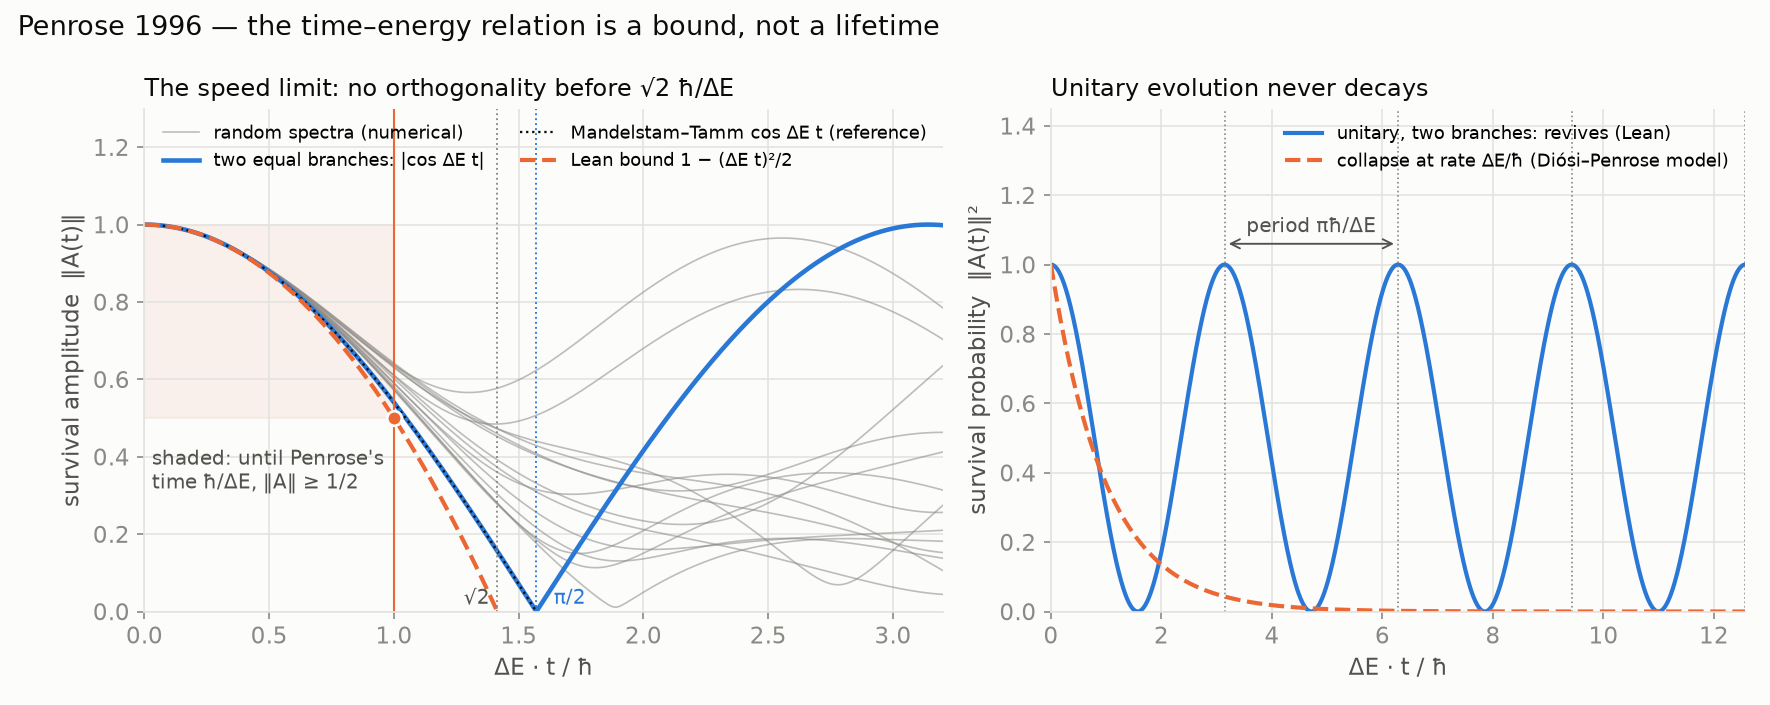
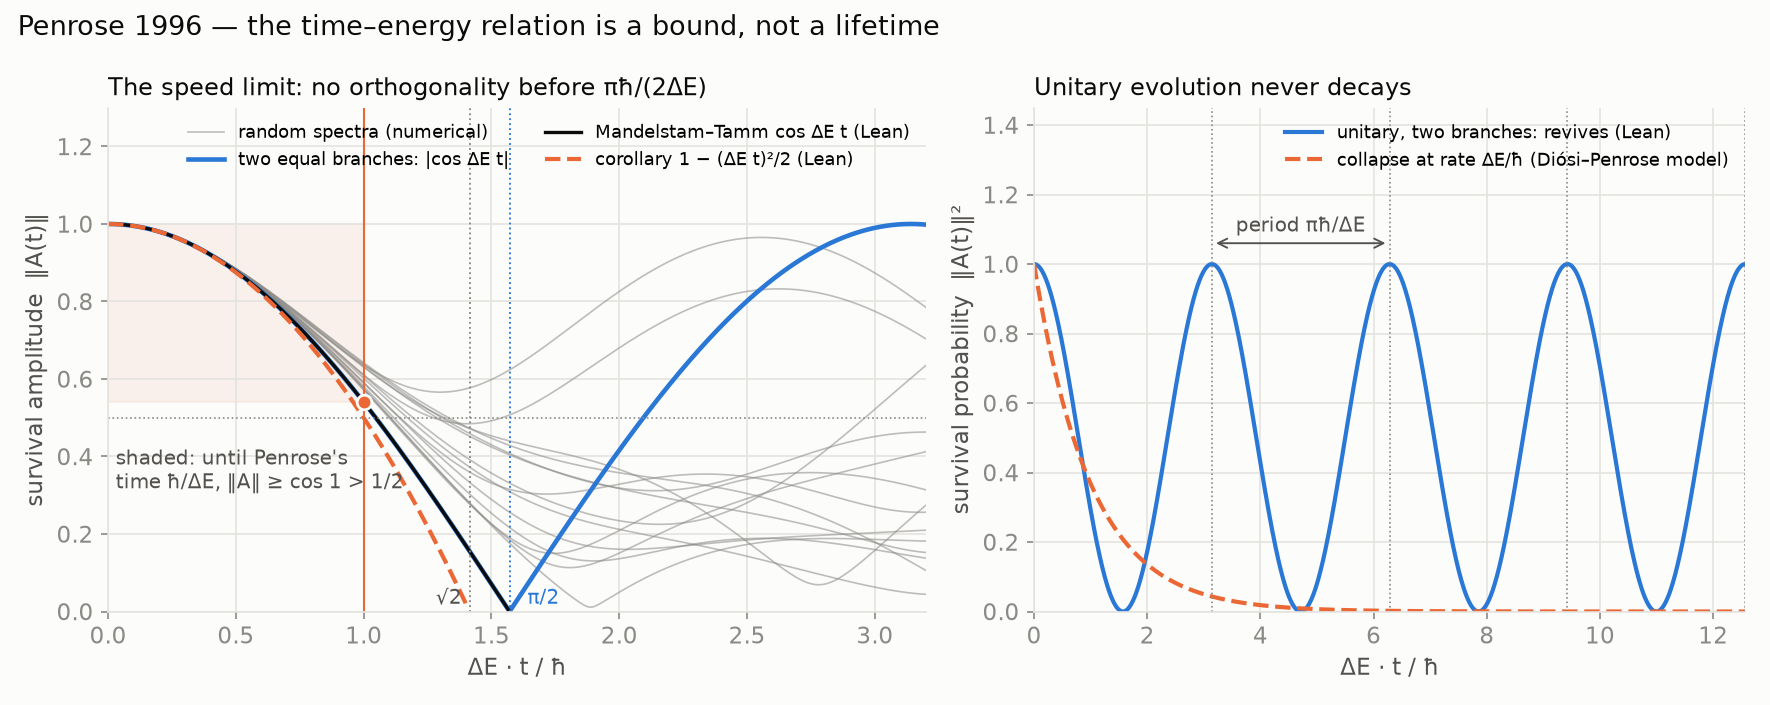
feat: the Taylor bound back, as a corollary of Mandelstam–Tamm
1 − ΔE²t²/2 ≤ ‖A(t)‖ for every t: from cos ΔE t up to π/2, trivially
beyond, and by E ↦ −E for t < 0. Figure redrawn with the new bounds.

diff --git a/docs/simulation/figures_penrose.py b/docs/simulation/figures_penrose.py
@@ -3,13 +3,14 @@
 Writes docs/figures/penrose1996_speed_limit.png.
 
 Left: survival amplitudes |A(t)| = |∑ p_k e^{−i E_k t}| against ΔE·t (ħ = 1): two equal branches
-(|cos ΔE t|, exact) and random finite spectra (numerical), above the Lean bound 1 − (ΔE t)²/2.
-At Penrose's time ΔE·t = 1 every curve is at least 1/2; none reaches 0 before √2.
+(|cos ΔE t|, exact) and random finite spectra (numerical), above the Mandelstam–Tamm bound
+cos ΔE t and its Taylor corollary 1 − (ΔE t)²/2. At Penrose's time ΔE·t = 1 every curve is at
+least cos 1 ≈ 0.54 > 1/2; none reaches 0 before π/2.
 Right: unitary dynamics revives (period π/ΔE, Lean) while a Diósi–Penrose collapse at rate ΔE/ħ
 would decay; the decay curve is the model's prediction, not a consequence of unitary dynamics.
 
-Exact (Lean, Penrose1996): the bound, ‖A‖ ≥ 1/2 at ΔE·t ≤ 1, two-branch orthogonality at π/2,
-period π. The Mandelstam–Tamm curve cos(ΔE t) is shown for reference; it is not formalized here.
+Exact (Lean, Penrose1996 on MandelstamTamm1945): cos ΔE t ≤ ‖A‖ up to π/2, 1 − (ΔE t)²/2 ≤ ‖A‖
+for every t, ‖A‖ ≥ cos 1 > 1/2 at ΔE·t ≤ 1, two-branch orthogonality at π/2, period π.
 
 Run:  python3 docs/simulation/figures_penrose.py
 """
@@ -41,15 +42,16 @@ def fig_penrose():
                 label="random spectra (numerical)" if i == 0 else None)
     ax.plot(s, np.abs(np.cos(s)), color=BLUE, lw=2.2, label="two equal branches: |cos ΔE t|")
     m = s <= np.pi / 2
-    ax.plot(s[m], np.cos(s[m]), color=INK, lw=1.1, ls=":",
-            label="Mandelstam–Tamm cos ΔE t (reference)")
+    ax.plot(s[m], np.cos(s[m]), color=INK, lw=1.6,
+            label="Mandelstam–Tamm cos ΔE t (Lean)")
     b = s <= np.sqrt(2)
     ax.plot(s[b], 1 - s[b] ** 2 / 2, color=ORANGE, lw=2, ls="--",
-            label="Lean bound 1 − (ΔE t)²/2")
-    ax.fill_between([0, 1], 0.5, 1.0, color=ORANGE, alpha=0.08)
+            label="corollary 1 − (ΔE t)²/2 (Lean)")
+    ax.fill_between([0, 1], np.cos(1), 1.0, color=ORANGE, alpha=0.08)
     ax.axvline(1, color=ORANGE, lw=1)
-    ax.plot([1], [0.5], "o", color=ORANGE, mec=SURFACE, mew=1.3, ms=7, zorder=5)
-    ax.text(0.03, 0.3, "shaded: until Penrose's\ntime ħ/ΔE, ‖A‖ ≥ 1/2", color=INK2,
+    ax.plot([1], [np.cos(1)], "o", color=ORANGE, mec=SURFACE, mew=1.3, ms=7, zorder=5)
+    ax.axhline(0.5, color=MUTED, lw=0.8, ls=":")
+    ax.text(0.03, 0.3, "shaded: until Penrose's\ntime ħ/ΔE, ‖A‖ ≥ cos 1 > 1/2", color=INK2,
             fontsize=9.5, va="bottom")
     ax.axvline(np.sqrt(2), color=MUTED, lw=0.9, ls=":")
     ax.axvline(np.pi / 2, color=BLUE, lw=0.9, ls=":")
@@ -60,7 +62,7 @@ def fig_penrose():
     ax.set_xlabel("ΔE · t / ħ")
     ax.set_ylabel("survival amplitude  ‖A(t)‖")
     ax.legend(loc="upper right", fontsize=8.6, framealpha=0.95, ncol=2)
-    ax.set_title("The speed limit: no orthogonality before √2 ħ/ΔE", loc="left", fontsize=11.5)
+    ax.set_title("The speed limit: no orthogonality before πħ/(2ΔE)", loc="left", fontsize=11.5)
 
     t = np.linspace(0, 4 * np.pi, 1200)
     bx.plot(t, np.cos(t) ** 2, color=BLUE, lw=2, label="unitary, two branches: revives (Lean)")

diff --git a/README.md b/README.md
@@ -12,6 +12,7 @@ evolution still keeps a survival amplitude of at least `cos 1 > 1/2`. Built on M
 
 | Statement | Lean |
 |---|---|
+| `‖A(t)‖ ≥ 1 − ΔE² t² / 2` for every `t`, as a corollary | `one_sub_le_norm_amplitude` |
 | at Penrose's time `ħ/ΔE`: `‖A‖ ≥ cos 1 ≈ 0.54` | `cos_one_le_norm_amplitude` |
 | hence `‖A‖ > 1/2`: the state has not decayed | `half_lt_norm_amplitude` |
 | no orthogonality before `πħ/(2ΔE)` | `speed_limit` |
